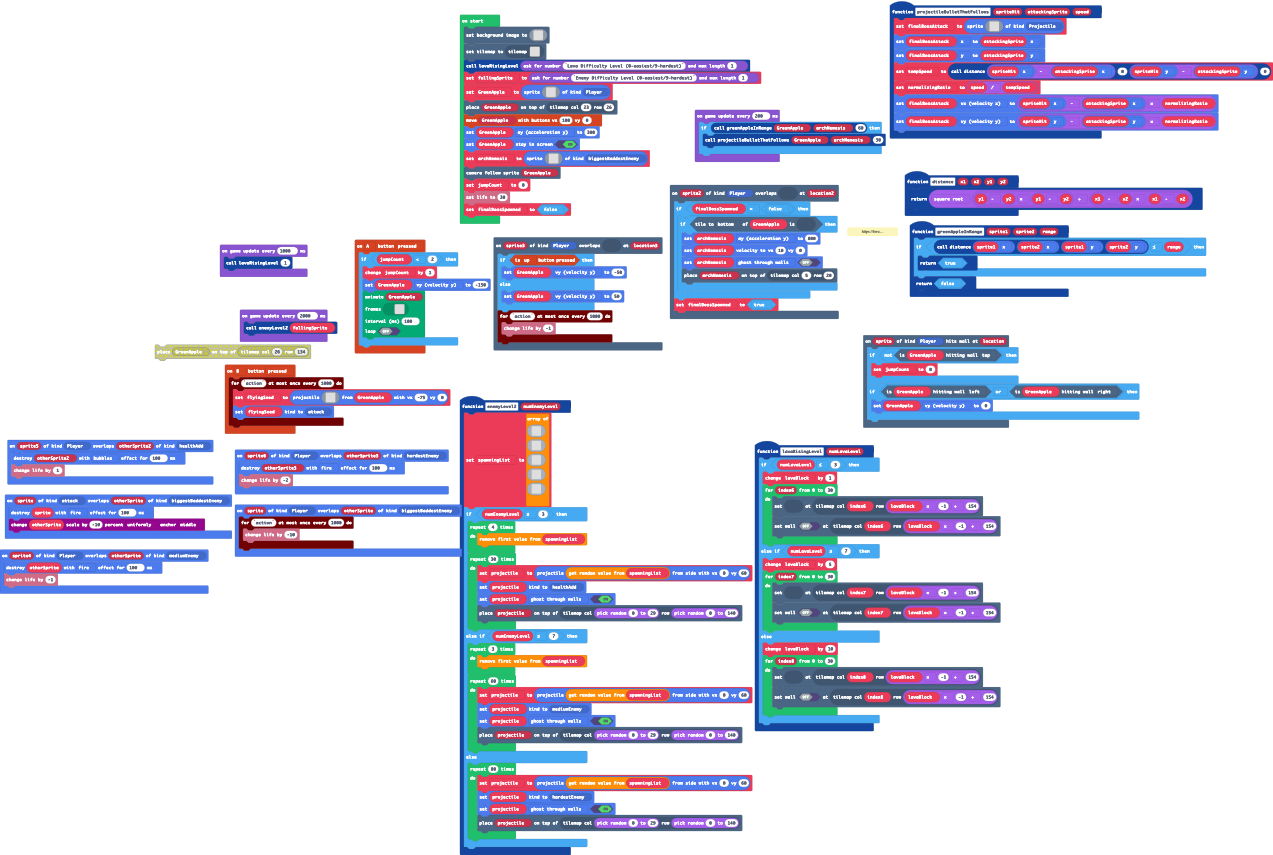
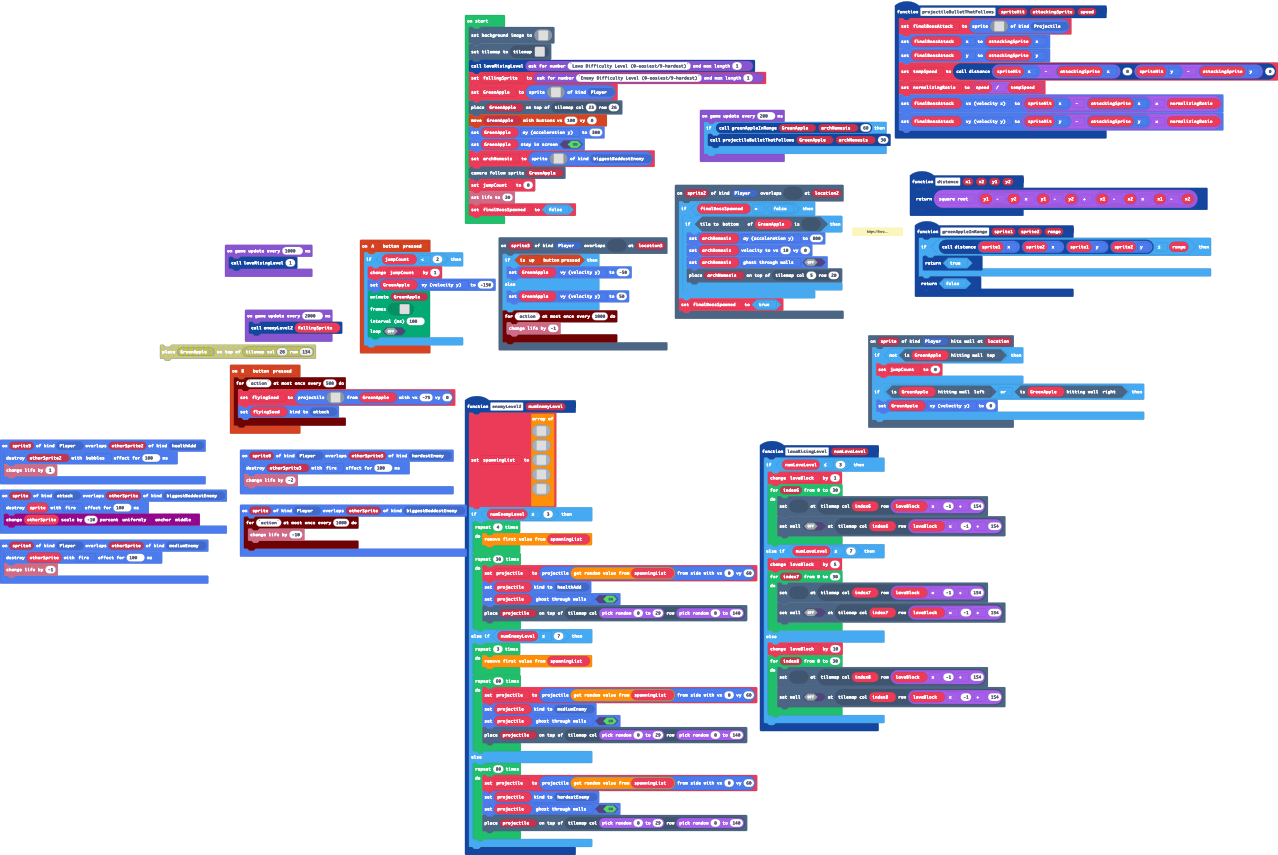
Update main.blocks, main.ts

diff --git a/main.ts b/main.ts
@@ -21,7 +21,7 @@ sprites.onOverlap(SpriteKind.attack, SpriteKind.biggestBaddestEnemy, function (s
     scaling.scaleByPercent(otherSprite, -10, ScaleDirection.Uniformly, ScaleAnchor.Middle)
 })
 controller.B.onEvent(ControllerButtonEvent.Pressed, function () {
-    timer.throttle("action", 1000, function () {
+    timer.throttle("action", 500, function () {
         flyingSeed = sprites.createProjectileFromSprite(img`
             . . . . . . . . . . . . . . . . 
             . . . . . . . . . . . . . . . . 
